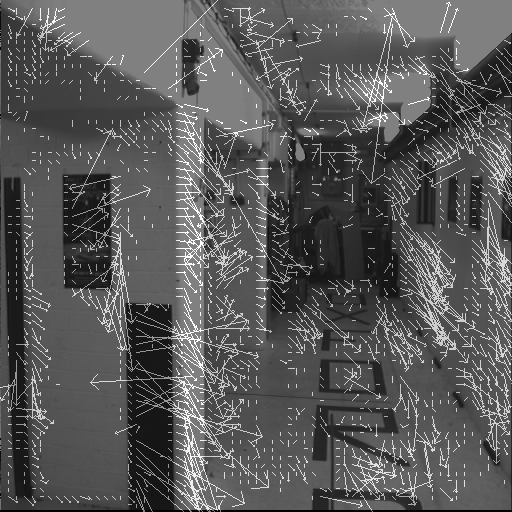
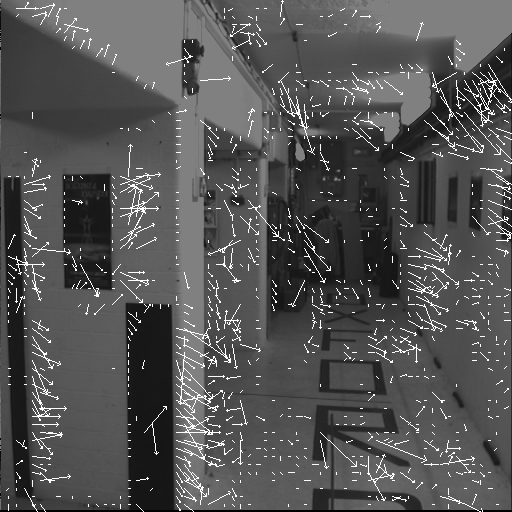
Add Results Problem 1

diff --git a/problem_1/lucas_kanade.py b/problem_1/lucas_kanade.py
@@ -5,7 +5,7 @@ import numpy as np
 import matplotlib.pyplot as plt
 
 
-def lucas_kanade(firstImage, secondImage, N, image_ind, dataset, tau=1e-2):
+def lucas_kanade(firstImage, secondImage, N, image_ind, dataset, tau=1e-3):
     firstImage = firstImage / 255
     secondImage = secondImage / 255
     image_shape = firstImage.shape
@@ -15,9 +15,9 @@ def lucas_kanade(firstImage, secondImage, N, image_ind, dataset, tau=1e-2):
     kernel_y = np.array([[-1], [1]])
     kernel_t = np.array([[1]])
 
-    # kernel_x = np.array([[-1., 1.], [-1., 1.]])
-    # kernel_y = np.array([[-1., -1.], [1., 1.]])
-    # kernel_t = np.array([[1., 1.], [1., 1.]])
+    # kernel_x = np.array([[-1., 1.], [-1., 1.]]) / 4
+    # kernel_y = np.array([[-1., -1.], [1., 1.]]) / 4
+    # kernel_t = np.array([[1., 1.], [1., 1.]]) / 4
 
     Ix = scipy.ndimage.convolve(input=firstImage, weights=kernel_x, mode='nearest')
     Iy = scipy.ndimage.convolve(input=firstImage, weights=kernel_y, mode='nearest')
@@ -52,14 +52,13 @@ def lucas_kanade(firstImage, secondImage, N, image_ind, dataset, tau=1e-2):
             w = A_transpose_A_PINV @ np.transpose(A) @ b
 
             u[row_ind, col_ind], v[row_ind, col_ind] = w
-            # u[row_ind-half_window_size: row_ind+half_window_size+1, col_ind-half_window_size:col_ind+half_window_size+1], v[row_ind-half_window_size: row_ind+half_window_size+1, col_ind-half_window_size:col_ind+half_window_size+1] = w
 
     flow_map = compute_flow_map(u, v, 8)
     plt.imshow(firstImage * 255, cmap='gray')
     plt.imshow(flow_map, cmap=None)
 
     # firstImage_denormalized = (firstImage * 255).astype(np.float32)
-    # added_image = cv2.addWeighted(firstImage_denormalized, 0.5, flow_map, 0.5, 0, dtype=cv2.CV_32F)
+    # added_image = cv2.addWeighted(firstImage_denormalized, 0.5, flow_map, 1, 0, dtype=cv2.CV_32F)
     # cv2.imwrite(f'./results/problem_1/optical_flow/{dataset}/flow_map_{image_ind}.png', added_image)
     # vis_optic_flow_arrows(firstImage, [u, v], f'./results/problem_1/optical_flow/{dataset}/flow_map_{image_ind}.png')
     plt.show()
@@ -78,8 +77,8 @@ def compute_flow_map(u, v, gran=8):
         for x in range(flow_map.shape[1]):
 
             if y % gran == 0 and x % gran == 0:
-                dx = 3 * int(u[y, x])
-                dy = 3 * int(v[y, x])
+                dx = 2 * int(u[y, x])
+                dy = 2 * int(v[y, x])
 
                 if dx > 0 or dy > 0:
                     cv2.arrowedLine(flow_map, (x, y), (x + dx, y + dy), 255, 1)
@@ -99,7 +98,7 @@ def vis_optic_flow_arrows(img, flow, filename, show=True):
     plt.axis('off')
     fig.axes.get_xaxis().set_visible(False)
     fig.axes.get_yaxis().set_visible(False)
-    step = img.shape[0] // 75
+    step = img.shape[0] // 50
 
     plt.quiver(x[::step, ::step], y[::step, ::step], u[::step, ::step], v[::step, ::step], color='r', pivot='middle',
                headwidth=2, headlength=3)

diff --git a/problem_1/interpolations.py b/problem_1/interpolations.py
@@ -77,23 +77,29 @@ def warp_flow(firstImage, secondImage, forward_flow, If, backward_flow, Ib, imag
     occlusion_x1 = np.round(xx + forward_flow[:, :, 0]).astype(np.int)
     occlusion_y1 = np.round(yy + forward_flow[:, :, 1]).astype(np.int)
 
+    occlusion_x1 = np.clip(occlusion_x1, 0, height-1)
+    occlusion_y1 = np.clip(occlusion_y1, 0, width-1)
+
     for i in range(occlusion_first.shape[0]):
         for j in range(occlusion_first.shape[1]):
-            if np.abs(forward_flow[i, j, 0] + backward_flow[occlusion_x1[i, j], occlusion_y1[i, j], 0]) > 0.25:
+            if np.abs(forward_flow[i, j, 0] + backward_flow[occlusion_x1[i, j], occlusion_y1[i, j], 0]) > 0.5:
                 occlusion_first[i, j] = 1
 
-            if np.abs(forward_flow[i, j, 1] + backward_flow[occlusion_x1[i, j], occlusion_y1[i, j], 1]) > 0.25:
+            if np.abs(forward_flow[i, j, 1] + backward_flow[occlusion_x1[i, j], occlusion_y1[i, j], 1]) > 0.5:
                 occlusion_first[i, j] = 1
 
     occlusion_x1 = np.round(xx + backward_flow[:, :, 0]).astype(np.int)
     occlusion_y1 = np.round(yy + backward_flow[:, :, 1]).astype(np.int)
 
+    occlusion_x1 = np.clip(occlusion_x1, 0, height-1)
+    occlusion_y1 = np.clip(occlusion_y1, 0, width-1)
+
     for i in range(occlusion_second.shape[0]):
         for j in range(occlusion_second.shape[1]):
-            if np.abs(backward_flow[i, j, 0] + forward_flow[occlusion_x1[i, j], occlusion_y1[i, j], 0]) > 0.25:
+            if np.abs(backward_flow[i, j, 0] + forward_flow[occlusion_x1[i, j], occlusion_y1[i, j], 0]) > 0.5:
                 occlusion_second[i, j] = 1
 
-            if np.abs(backward_flow[i, j, 1] + forward_flow[occlusion_x1[i, j], occlusion_y1[i, j], 1]) > 0.25:
+            if np.abs(backward_flow[i, j, 1] + forward_flow[occlusion_x1[i, j], occlusion_y1[i, j], 1]) > 0.5:
                 occlusion_second[i, j] = 1
 
     img0_for_x = xx - t * uti[:, :, 0]
@@ -121,8 +127,8 @@ def warp_flow(firstImage, secondImage, forward_flow, If, backward_flow, Ib, imag
             elif occlusion_second[i,j]:
                 It[i, j] = ip1(xt0[i, j], yt0[i, j])
 
-    cv2.imwrite(f'./results/problem_1/interpolated_frames/{dataset}/interpolated_{image_ind + 1}.png',
-                It)
+    It = It.astype(np.int)
+    cv2.imwrite(f'./results/problem_1/interpolated_frames/{dataset}/interpolated_{image_ind + 1}.png', It)
 
 
 def outside_in_fill(image):

diff --git a/problem_1/corridor.py b/problem_1/corridor.py
@@ -6,7 +6,7 @@ from .lucas_kanade import lucas_kanade
 from .interpolations import warp_flow
 
 
-def corridor_interpolation(N=11):
+def corridor_interpolation(N=5):
     images = glob.glob('./input/corridor/*.pgm')
     images.sort(key=lambda f: int(re.sub('\D', '', f)))
 
@@ -21,4 +21,3 @@ def corridor_interpolation(N=11):
         backward_flow, Ib = lucas_kanade(secondImage, firstImage, N, ind, 'corridor')
 
         warp_flow(firstImage, secondImage, forward_flow, If, backward_flow, Ib, ind, 'corridor')
-        break
